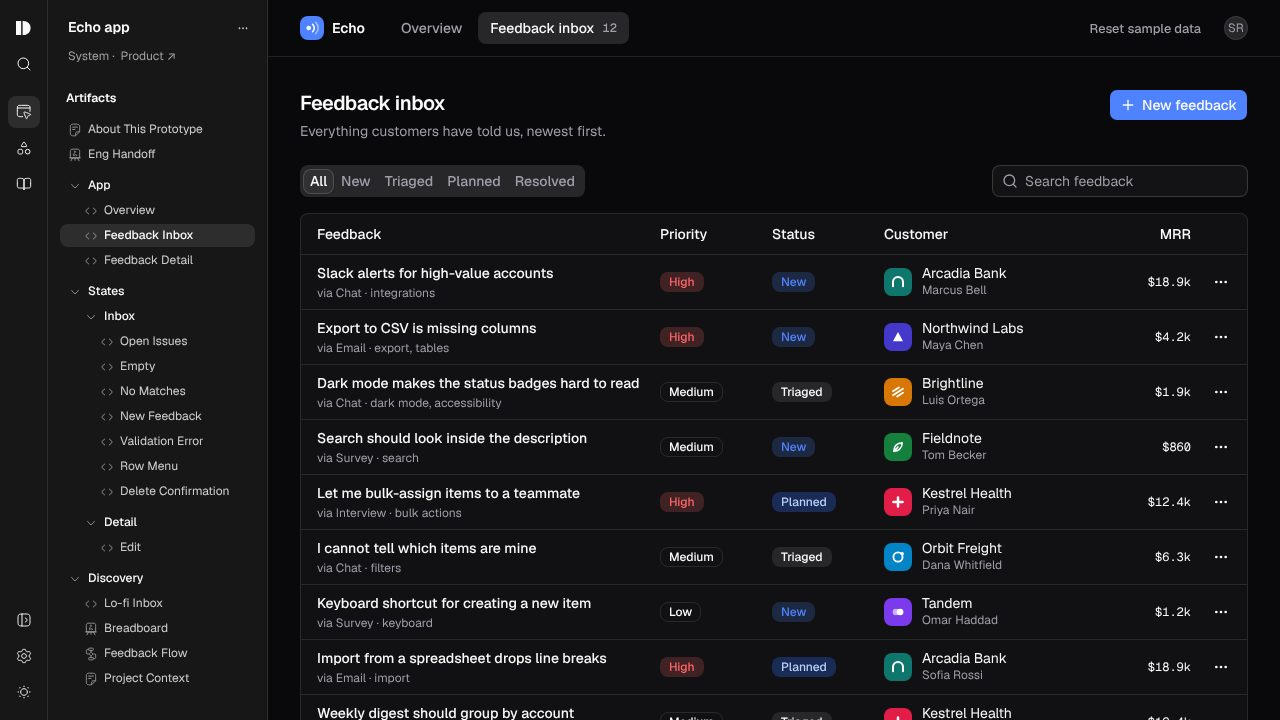
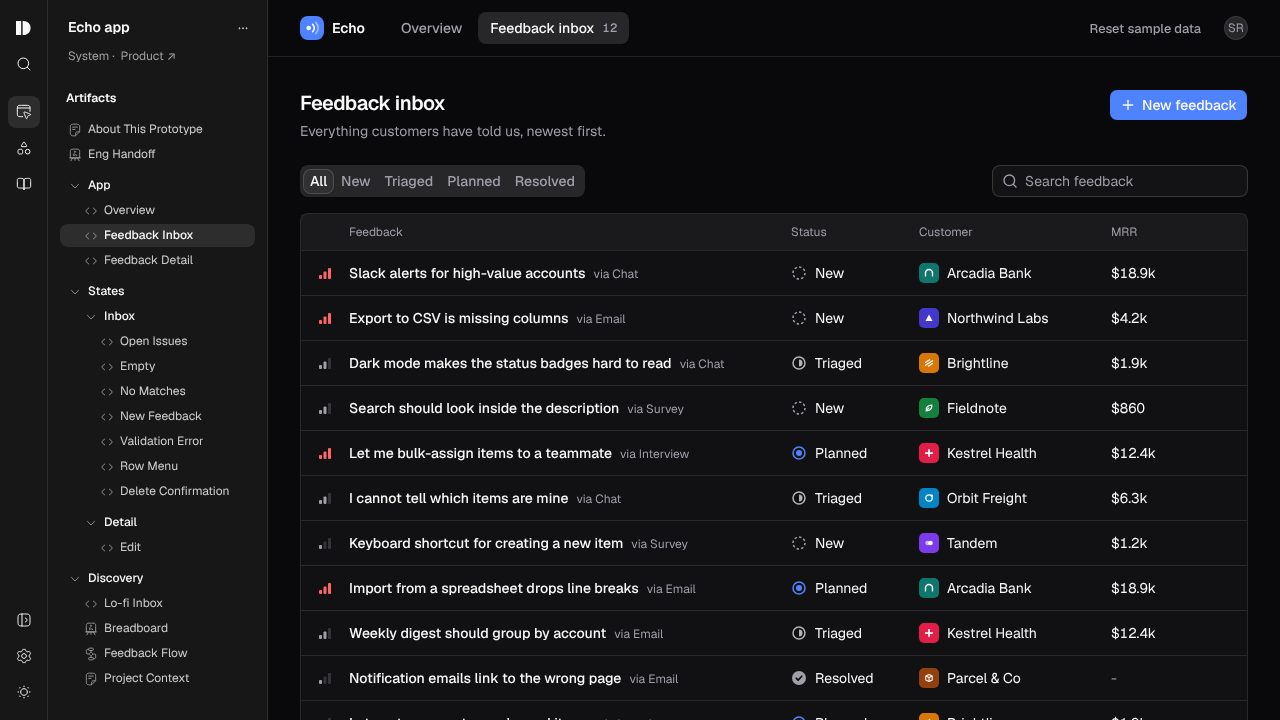
Echo website and README shots: show the app's new table
Claude-Session: https://claude.ai/code/session_01F8Nue8sm7ZvkKzjKYZMN4s

diff --git a/src/prototypes/parker/echo-website/_components/site.module.css b/src/prototypes/parker/echo-website/_components/site.module.css
@@ -17,7 +17,7 @@
   color: var(--ink);
 }
 
-.mono { font-family: var(--font-mono); font-size: 12px; font-variant-numeric: tabular-nums; }
+.count { font-variant-numeric: tabular-nums; }
 .muted { color: var(--muted); }
 .num { text-align: right; }
 
@@ -89,31 +89,33 @@
 .shotLogo { display: grid; place-items: center; width: 22px; height: 22px; border-radius: 6px; background: var(--brand); color: #fff; }
 .shotLogo svg { width: 15px; height: 15px; }
 .shotNav { display: flex; gap: 8px; padding: 6px 10px; border-radius: 6px; color: var(--muted); font-weight: 500; }
-.shotNav span { font-family: var(--font-mono); font-size: 11px; font-weight: 400; }
+.shotNav span { color: var(--muted); font-size: 12px; font-weight: 400; font-variant-numeric: tabular-nums; }
 .shotNavOn { background: var(--tint); color: var(--ink); }
 .shotMain { padding: 20px 24px; }
 .shotHead { display: flex; align-items: flex-start; justify-content: space-between; margin-bottom: 16px; }
 .shotTitle { font-size: 17px; font-weight: 600; letter-spacing: -0.01em; }
 .shotSub { margin-top: 2px; color: var(--muted); }
 .shotButton { white-space: nowrap; padding: 6px 10px; border-radius: 6px; background: var(--brand); color: #fff; font-weight: 500; }
-.shotTable { border: 1px solid var(--line); border-radius: 10px; }
+.shotTable { overflow: hidden; border: 1px solid var(--line); border-radius: 10px; }
 .shotRow {
   display: grid;
-  grid-template-columns: minmax(0, 2.2fr) 72px 76px minmax(0, 1.3fr) 60px;
+  grid-template-columns: 16px minmax(0, 1fr) 96px minmax(0, 148px) 52px;
   align-items: center;
-  gap: 12px;
-  padding: 9px 14px;
+  gap: 14px;
+  height: 44px;
+  padding: 0 16px;
   border-top: 1px solid var(--line);
 }
-.shotRow b { display: block; overflow: hidden; font-weight: 500; white-space: nowrap; text-overflow: ellipsis; }
-.shotRow small { display: block; color: var(--muted); font-size: 11px; }
-.shotRowHead { border-top: 0; color: var(--muted); font-size: 12px; font-weight: 500; }
+.shotFeedback { display: flex; align-items: baseline; gap: 8px; min-width: 0; white-space: nowrap; }
+.shotFeedback b { overflow: hidden; font-weight: 500; text-overflow: ellipsis; }
+.shotFeedback small { color: var(--muted); font-size: 11px; }
+.shotRowHead { height: 36px; border-top: 0; background: color-mix(in oklab, var(--tint) 60%, transparent); color: var(--muted); font-size: 12px; }
 .shotPerson { display: flex; align-items: center; gap: 8px; min-width: 0; }
-.shotLogoMark { width: 24px; height: 24px; border-radius: 6px; }
-.shotLogoMark svg { width: 16px; height: 16px; }
+.shotLogoMark { width: 20px; height: 20px; border-radius: 5px; }
+.shotLogoMark svg { width: 14px; height: 14px; }
 .shotPerson > span { min-width: 0; overflow: hidden; white-space: nowrap; text-overflow: ellipsis; }
 
-.shot em, .card em, .account > .tagBrand {
+.account > .tagBrand {
   display: inline-block;
   padding: 1px 7px;
   border-radius: 6px;
@@ -121,9 +123,7 @@
   font-style: normal;
   font-weight: 500;
 }
-.high { background: color-mix(in oklab, #e5484d 12%, transparent); color: #d1343b; }
 .tagBrand { background: color-mix(in oklab, var(--color-bg-brand-solid) 12%, transparent); color: var(--color-text-brand-secondary); }
-.neutral { background: var(--tint); color: var(--color-text-secondary); }
 
 /* Sections */
 .section { max-width: 1200px; margin: 0 auto; padding: 112px 32px; }
@@ -158,7 +158,8 @@
 .account b { display: block; font-size: 15px; font-weight: 600; }
 .account small { color: var(--muted); font-size: 12px; }
 .account > div { flex: 1; min-width: 0; }
-.accountLogo { display: grid; flex: none; place-items: center; width: 36px; height: 36px; border-radius: 9px; background: var(--ink); color: var(--surface); font-weight: 600; }
+.accountLogo { width: 36px; height: 36px; border-radius: 9px; }
+.accountLogo svg { width: 24px; height: 24px; }
 .accountStats { display: grid; grid-template-columns: repeat(3, 1fr); border-bottom: 1px solid var(--line); }
 .accountStats > div { padding: 20px 24px; }
 .accountStats > div + div { border-left: 1px solid var(--line); }
@@ -168,6 +169,7 @@
 .accountAsks li { display: flex; align-items: center; justify-content: space-between; gap: 12px; padding: 16px 24px; }
 .accountAsks li + li { border-top: 1px solid var(--line); }
 .accountAsks li > span { min-width: 0; font-weight: 500; }
+.accountAsks li > :last-child { flex: none; color: var(--color-text-secondary); }
 .accountAsks small { display: block; color: var(--muted); font-size: 11px; font-weight: 400; }
 
 .sources, .roadmap { display: flex; flex-direction: column; gap: 12px; margin-top: auto; }
@@ -230,8 +232,8 @@
   .shotHead { align-items: center; margin-bottom: 12px; }
   .shotTitle { font-size: 15px; }
   .shotButton { padding: 4px 8px; font-size: 12px; }
-  .shotRow { grid-template-columns: minmax(0, 1fr) 72px; }
-  .shotRow > :nth-child(2), .shotRow > :nth-child(4), .shotRow > :nth-child(5) { display: none; }
+  .shotRow { grid-template-columns: 16px minmax(0, 1fr) 84px; gap: 10px; padding: 0 12px; }
+  .shotRow > :nth-child(4), .shotRow > :nth-child(5), .shotFeedback small { display: none; }
   .section { padding: 64px 20px; }
   .sectionTitle { font-size: 30px; line-height: 1.12; letter-spacing: -0.03em; }
   .bento { grid-template-columns: 1fr; gap: 16px; margin-top: 32px; }

diff --git a/src/prototypes/parker/echo-website/_components/site.tsx b/src/prototypes/parker/echo-website/_components/site.tsx
@@ -4,6 +4,8 @@ import type { CSSProperties } from 'react';
 import { ArrowRight } from '@/systems/marketing/libraries/icons';
 import { buttonVariants } from '@/systems/marketing/components/button';
 import { cn } from '#studio/runtime';
+import CompanyLogo from './CompanyLogo';
+import { StatusLabel, type Status } from './marks';
 import { EchoMark, ProductShot } from './product-shot';
 import styles from './site.module.css';
 
@@ -25,7 +27,7 @@ const accountStats = [
   { label: 'Seats', value: '240' },
   { label: 'Requests', value: '4' },
 ];
-const accountAsks = [
+const accountAsks: { title: string; via: string; status: Status }[] = [
   { title: 'Slack alerts for high-value accounts', via: 'Chat', status: 'New' },
   { title: 'Import from a spreadsheet drops line breaks', via: 'Email', status: 'Planned' },
   { title: 'SSO for contractor accounts', via: 'Interview', status: 'Triaged' },
@@ -82,7 +84,7 @@ export function EchoHome({ tone, hero }: { tone: 'cobalt' | 'light'; hero?: Hero
             </div>
             <div className={styles.accountPanel}>
               <div className={styles.account}>
-                <span className={styles.accountLogo}>A</span>
+                <CompanyLogo company="Arcadia Bank" className={styles.accountLogo} />
                 <div><b>Arcadia Bank</b><small>Enterprise plan · Renews in March</small></div>
                 <span className={styles.tagBrand}>Key account</span>
               </div>
@@ -93,7 +95,7 @@ export function EchoHome({ tone, hero }: { tone: 'cobalt' | 'light'; hero?: Hero
               </dl>
               <ul className={styles.accountAsks}>
                 {accountAsks.map((a) => (
-                  <li key={a.title}><span>{a.title}<small>via {a.via}</small></span><em className={a.status === 'Planned' || a.status === 'New' ? styles.tagBrand : styles.neutral}>{a.status}</em></li>
+                  <li key={a.title}><span>{a.title}<small>via {a.via}</small></span><StatusLabel status={a.status} /></li>
                 ))}
               </ul>
             </div>
@@ -105,7 +107,7 @@ export function EchoHome({ tone, hero }: { tone: 'cobalt' | 'light'; hero?: Hero
             </div>
             <div className={styles.sources}>
               {sources.map((s) => (
-                <div key={s.name} className={styles.sourceRow}><span>{s.name}</span><span className={styles.sourceBar}><i style={{ width: `${(s.count / 128) * 100}%` }} /></span><span className={styles.mono}>{s.count}</span></div>
+                <div key={s.name} className={styles.sourceRow}><span>{s.name}</span><span className={styles.sourceBar}><i style={{ width: `${(s.count / 128) * 100}%` }} /></span><span className={styles.count}>{s.count}</span></div>
               ))}
             </div>
           </article>
@@ -116,7 +118,7 @@ export function EchoHome({ tone, hero }: { tone: 'cobalt' | 'light'; hero?: Hero
             </div>
             <div className={styles.roadmap}>
               {roadmap.map((r) => (
-                <div key={r.title} className={styles.roadmapRow}><span className={styles.roadmapDot} /><span className={styles.roadmapTitle}>{r.title}</span><span className={styles.mono}>{r.mrr}</span></div>
+                <div key={r.title} className={styles.roadmapRow}><span className={styles.roadmapDot} /><span className={styles.roadmapTitle}>{r.title}</span><span className={styles.count}>{r.mrr}</span></div>
               ))}
             </div>
           </article>

diff --git a/src/prototypes/parker/echo-website/_components/product-shot.tsx b/src/prototypes/parker/echo-website/_components/product-shot.tsx
@@ -1,9 +1,10 @@
 // The Echo app, recreated for the website: the feedback inbox under its top bar. It's a picture made of
 // markup, so it stays sharp at any size and follows the theme, and it never links into the app prototype.
 import CompanyLogo from './CompanyLogo';
+import { PriorityIcon, StatusLabel, type Priority, type Status } from './marks';
 import styles from './site.module.css';
 
-const rows = [
+const rows: { title: string; via: string; person: string; company: string; mrr: string; priority: Priority; status: Status }[] = [
   { title: 'Slack alerts for high-value accounts', via: 'Chat', person: 'Marcus Bell', company: 'Arcadia Bank', mrr: '$18.9k', priority: 'High', status: 'New' },
   { title: 'Export to CSV is missing columns', via: 'Email', person: 'Maya Chen', company: 'Northwind Labs', mrr: '$4.2k', priority: 'High', status: 'New' },
   { title: 'Dark mode makes the status badges hard to read', via: 'Chat', person: 'Luis Ortega', company: 'Brightline', mrr: '$1.9k', priority: 'Medium', status: 'Triaged' },
@@ -24,7 +25,7 @@ export function EchoMark({ className }: { className?: string }) {
 
 export function ProductShot() {
   return (
-    <div className={styles.shot} role="img" aria-label="The Echo feedback inbox, with each request tied to an account and its monthly revenue">
+    <div className={styles.shot} role="img" aria-label="The Echo feedback inbox, with each request's priority, status, and account and its monthly revenue">
       <div className={styles.shotChrome}><span /><span /><span /></div>
       <div className={styles.shotBar}>
         <div className={styles.shotWorkspace}><span className={styles.shotLogo}><EchoMark /></span>Echo</div>
@@ -42,14 +43,14 @@ export function ProductShot() {
             <span className={styles.shotButton}>+ New feedback</span>
           </div>
           <div className={styles.shotTable}>
-            <div className={`${styles.shotRow} ${styles.shotRowHead}`}><span>Feedback</span><span>Priority</span><span>Status</span><span>Customer</span><span className={styles.num}>MRR</span></div>
+            <div className={`${styles.shotRow} ${styles.shotRowHead}`}><span /><span>Feedback</span><span>Status</span><span>Customer</span><span>MRR</span></div>
             {rows.map((r) => (
               <div key={r.title} className={styles.shotRow}>
-                <span><b>{r.title}</b><small>via {r.via}</small></span>
-                <span><em className={r.priority === 'High' ? styles.high : styles.neutral}>{r.priority}</em></span>
-                <span><em className={r.status === 'Triaged' ? styles.neutral : styles.tagBrand}>{r.status}</em></span>
-                <span className={styles.shotPerson}><CompanyLogo company={r.company} className={styles.shotLogoMark} /><span>{r.company}<small>{r.person}</small></span></span>
-                <span className={`${styles.num} ${styles.mono}`}>{r.mrr}</span>
+                <PriorityIcon priority={r.priority} />
+                <span className={styles.shotFeedback}><b>{r.title}</b><small>via {r.via}</small></span>
+                <StatusLabel status={r.status} />
+                <span className={styles.shotPerson}><CompanyLogo company={r.company} className={styles.shotLogoMark} /><span>{r.company}</span></span>
+                <span className={styles.count}>{r.mrr}</span>
               </div>
             ))}
           </div>

diff --git a/src/prototypes/parker/echo-website/_components/marks.tsx b/src/prototypes/parker/echo-website/_components/marks.tsx
@@ -1,0 +1,31 @@
+// The Echo app's priority bars and status circles (echo-app/app/_components/badges.tsx), copied because a prototype imports
+// only its own files. They keep the website's pictures of the app in step with the app itself.
+export type Status = 'New' | 'Triaged' | 'Planned' | 'Resolved';
+export type Priority = 'High' | 'Medium' | 'Low';
+
+export function PriorityIcon({ priority }: { priority: Priority }) {
+  const level = { Low: 1, Medium: 2, High: 3 }[priority];
+  return (
+    <svg viewBox="0 0 16 16" role="img" aria-label={`${priority} priority`} width="16" height="16" style={{ flex: 'none', color: priority === 'High' ? '#e5484d' : 'var(--muted)' }}>
+      {[0, 1, 2].map((i) => (
+        <rect key={i} x={2 + i * 4.5} y={10 - i * 3.5} width="3" height={4 + i * 3.5} rx="1" fill="currentColor" opacity={i < level ? 1 : 0.25} />
+      ))}
+    </svg>
+  );
+}
+
+export function StatusIcon({ status }: { status: Status }) {
+  const color = { New: 'var(--muted)', Triaged: 'var(--color-text-secondary)', Planned: 'var(--brand)', Resolved: 'var(--muted)' }[status];
+  return (
+    <svg viewBox="0 0 16 16" aria-hidden="true" width="16" height="16" style={{ flex: 'none', color }}>
+      {status === 'New' && <circle cx="8" cy="8" r="6" fill="none" stroke="currentColor" strokeWidth="1.5" strokeDasharray="2.4 2.2" />}
+      {status === 'Triaged' && <><circle cx="8" cy="8" r="6" fill="none" stroke="currentColor" strokeWidth="1.5" /><path d="M8 4.5a3.5 3.5 0 0 1 0 7z" fill="currentColor" /></>}
+      {status === 'Planned' && <><circle cx="8" cy="8" r="6" fill="none" stroke="currentColor" strokeWidth="1.5" /><circle cx="8" cy="8" r="3" fill="currentColor" /></>}
+      {status === 'Resolved' && <><circle cx="8" cy="8" r="7" fill="currentColor" /><path d="m5.2 8.2 1.9 1.9 3.7-3.9" fill="none" stroke="var(--surface)" strokeWidth="1.6" strokeLinecap="round" strokeLinejoin="round" /></>}
+    </svg>
+  );
+}
+
+export function StatusLabel({ status, className }: { status: Status; className?: string }) {
+  return <span className={className} style={{ display: 'flex', alignItems: 'center', gap: 8 }}><StatusIcon status={status} />{status}</span>;
+}
